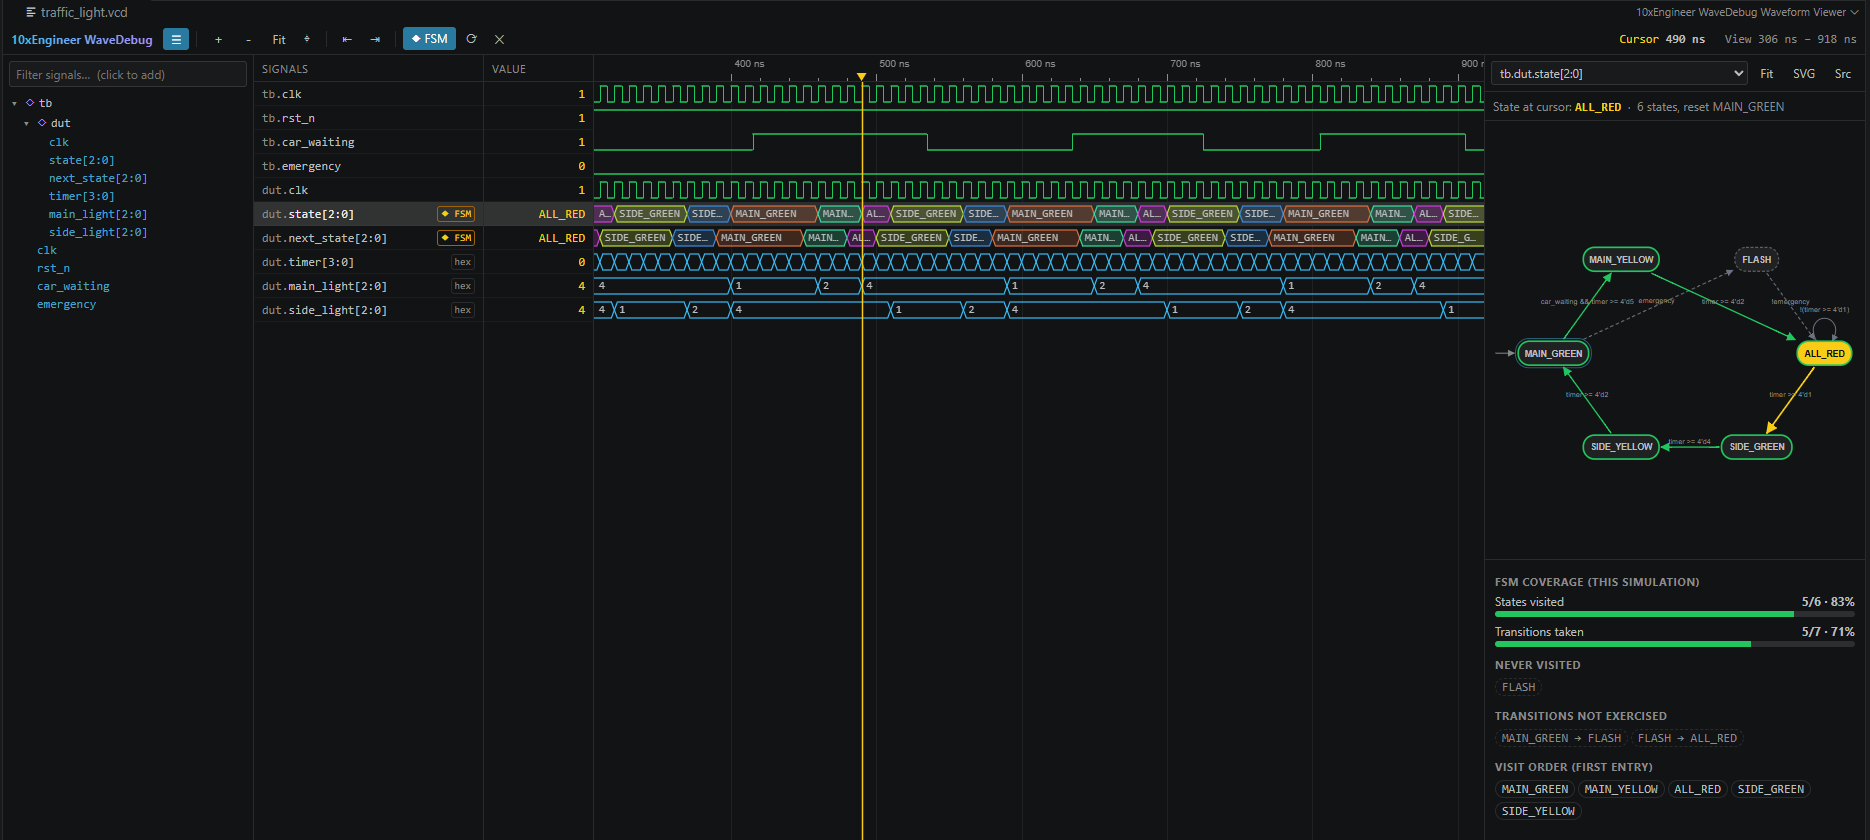
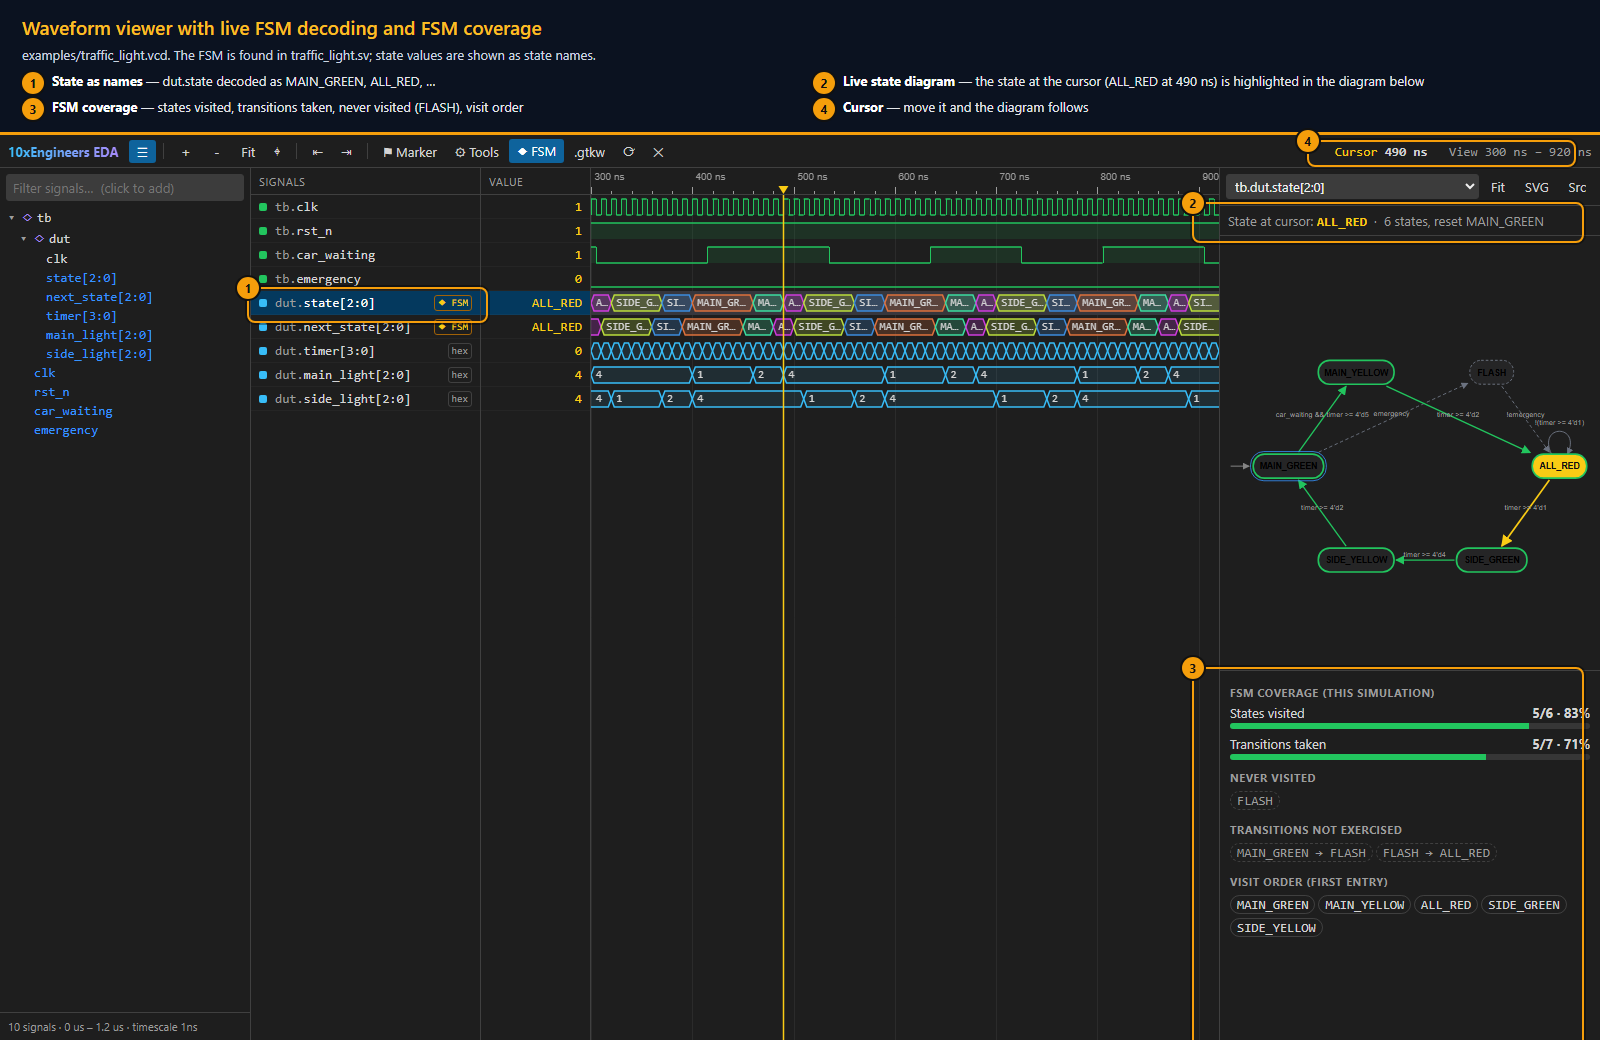
0.12.4: re-taken README pictures with labels; small CI pipeline

diff --git a/README.md b/README.md
@@ -443,7 +443,7 @@ Run **10xEngineers EDA: Open Coverage Report**. It accepts:
 - **Verilator** `coverage.dat`
 - JSON
 
-![Coverage overview](images/coverage-overview.png)
+![Coverage overview with numbered labels](images/coverage-overview.png)
 
 | Tab | What you get |
 |---|---|
@@ -457,7 +457,7 @@ Run **10xEngineers EDA: Open Coverage Report**. It accepts:
 | **Assertions** | Failed, passed and vacuous assertions; cover directives |
 | **Analysis** | What to do next, plus generated constraints that target the holes |
 
-![Unhit bins sheet](images/coverage-holes.png)
+![Unhit bins, ranked by priority](images/coverage-holes.png)
 
 **Excel export** produces real `.xlsx` files. There are three buttons:
 - **Excel: Hit**: only hit bins and hit testplan items
@@ -468,7 +468,7 @@ Status cells are coloured, headers are frozen and every sheet has filters.
 
 **In the editor**: click **Highlight coverage in editor**. Lines that never executed are shaded red, covered lines get a green bar, and hovering shows hit counts. File coverage also appears in VS Code's **Testing** panel.
 
-![Analysis with constraint suggestions](images/coverage-analysis.png)
+![Analysis with generated constraints](images/coverage-analysis.png)
 
 ## 3. Testplan: spec → features → hit / remaining
 1. **Extract the features.** Right-click a `.md` or `.txt` specification and choose **Extract Testplan from Spec**. Every *shall / must / should* sentence becomes a feature. The command writes `<spec>.testplan` (YAML) and `<spec>_testplan.xlsx`.
@@ -485,7 +485,7 @@ Status cells are coloured, headers are frozen and every sheet has filters.
    `.testplan` files get **autocomplete and validation** from the bundled schema (install *YAML by Red Hat*). A CSV vplan with the columns `ID, Feature, Description, Priority, Owner, Coverage Items, Goal` also works.
 3. **Load it.** Use **Testplan…** in the dashboard, or put it next to the report and it loads automatically. Each feature shows **Covered / Partial / Not covered / Unmapped**, with the hit and remaining items. The sidebar shows the same.
 
-![Testplan status](images/testplan.png)
+![Testplan status per feature](images/testplan.png)
 
 ## 4. Regression (each test in its own directory)
 Describe the regression in `regression.json`. It is schema-validated, so you get autocomplete.
@@ -534,7 +534,7 @@ Supporting commands:
 | **Run Questa Simulation** | Pick the test and batch or GUI mode. Afterwards the dashboard and waves open |
 
 ## 6. UVM-aware SystemVerilog
-![Sidebar views](images/sidebar-views.png)
+![UVM architecture diagram with numbered labels](images/demo/09-uvm-architecture.png)
 - **UVM Verification Hierarchy** view:
   - each test's **component topology**, worked out from `type_id::create` calls, with **factory overrides applied** (overridden components are marked)
   - ports and their `connect()` calls

diff --git a/CHANGELOG.md b/CHANGELOG.md
@@ -1,5 +1,9 @@
 # Changelog
 
+## 0.12.4
+- README: the coverage dashboard, holes, analysis, testplan and waveform/FSM pictures are re-taken from the current build, with numbered labels. The old sidebar picture is replaced by the UVM architecture diagram. The example VCD header carries the current product name.
+- CI: one small job (syntax check, unit tests, Icarus end-to-end with the Excel test plan, `.vsix` package). Tags `v*` publish a GitHub Release.
+
 ## 0.12.3
 - **Demo in pictures.** 11 labelled screenshots in `images/demo/`, taken from a complete run on one design (`reg_32_bit.sv`). Each has numbered labels with an explanation bar. They appear in the README (*See it working*) and in the Welcome walkthrough steps (demo, dashboard, run, UVM, sign-off, quality).
 - Fix: the run panel showed raw Markdown links (`[sim.log](sim.log)`) in the triage notes.
